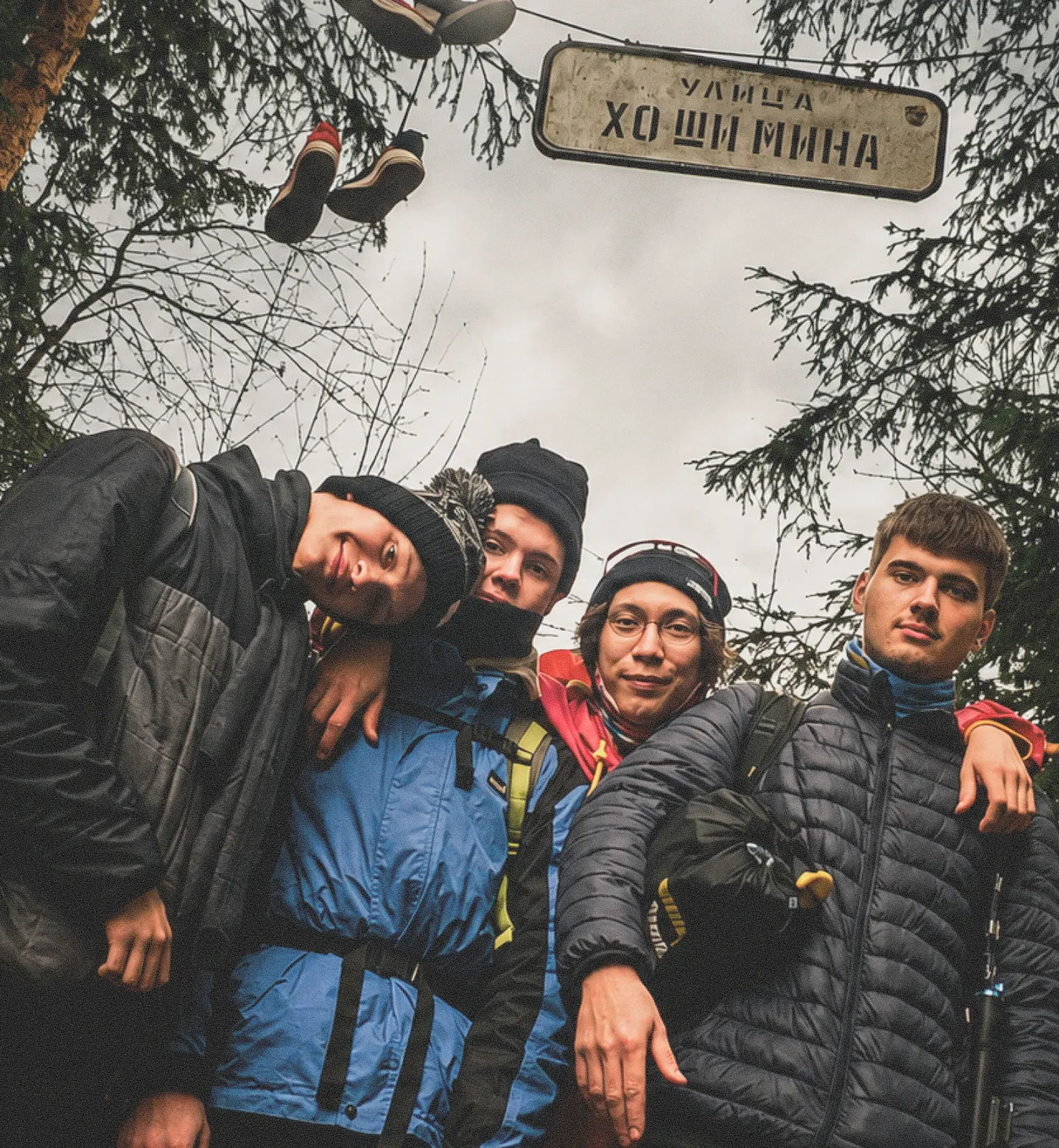
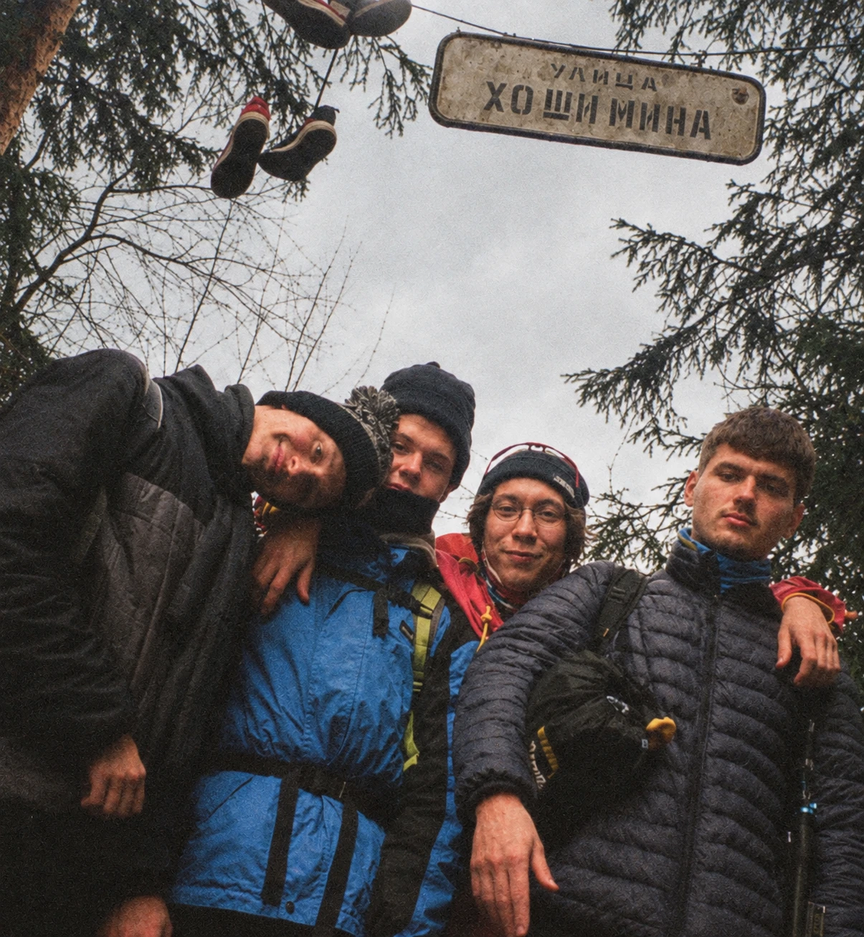
Improved intro photo (block 2)

diff --git a/index.html b/index.html
@@ -95,7 +95,7 @@
 
   <section class="intro" id="about">
     <div class="intro__media">
-      <img loading="lazy" decoding="async" src="assets/img/hero.webp?v=2" alt="Команда велосипедистов на маршруте">
+      <img loading="lazy" decoding="async" src="assets/img/hero.webp?v=3" alt="Команда велосипедистов на маршруте">
     </div>
     <div class="intro__content">
       <p class="heading" data-reveal-lines>
